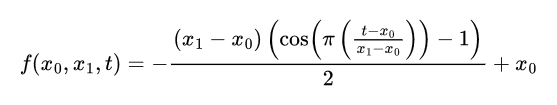
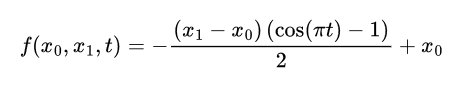
add intake & update easing formula for it

Changed region(s): [[0.0302, 0.1839, 0.9676, 0.8276]]

diff --git a/TeamCode/src/main/java/org/lexingtonchristian/ftc/components/Intake.java b/TeamCode/src/main/java/org/lexingtonchristian/ftc/components/Intake.java
@@ -1,0 +1,54 @@
+package org.lexingtonchristian.ftc.components;
+
+import com.qualcomm.robotcore.hardware.DcMotor;
+import com.qualcomm.robotcore.hardware.DcMotorEx;
+import com.qualcomm.robotcore.hardware.HardwareMap;
+
+import org.lexingtonchristian.ftc.util.Constants;
+import org.lexingtonchristian.ftc.util.MathHelper;
+
+public class Intake {
+
+    private final DcMotorEx motor;
+
+    private boolean active;
+    private long startTime;
+    private long activeDuration;
+
+    public Intake(HardwareMap map) {
+        motor = (DcMotorEx) map.get(DcMotor.class, Constants.INTAKE);
+        active = false;
+    }
+
+    public void setActive(boolean active) {
+        boolean prev = this.active;
+        this.active = active;
+        if (active && !prev) {
+            startTime = System.currentTimeMillis();
+            activeDuration = 0;
+        }
+    }
+
+    public void tick() {
+
+        if (!active) {
+            motor.setPower(0.0);
+            return;
+        }
+
+        if (activeDuration >= Constants.INTAKE_SPINUP_MS) {
+            motor.setVelocity(Constants.INTAKE_VELOCITY);
+            return;
+        }
+
+        activeDuration = System.currentTimeMillis() - startTime;
+
+        motor.setVelocity(MathHelper.easeInOutSine(
+                0,
+                Constants.INTAKE_VELOCITY,
+                (double) activeDuration / (double) Constants.INTAKE_SPINUP_MS
+        ));
+
+    }
+
+}

diff --git a/TeamCode/src/main/java/org/lexingtonchristian/ftc/op/tele/PrimaryTeleOp.java b/TeamCode/src/main/java/org/lexingtonchristian/ftc/op/tele/PrimaryTeleOp.java
@@ -5,11 +5,13 @@ import com.qualcomm.robotcore.eventloop.opmode.TeleOp;
 import com.qualcomm.robotcore.hardware.Gamepad;
 
 import org.lexingtonchristian.ftc.components.Drivetrain;
+import org.lexingtonchristian.ftc.components.Intake;
 
 @TeleOp(name = "Primary", group = "Competition")
 public class PrimaryTeleOp extends OpMode {
 
     private Drivetrain drivetrain;
+    private Intake intake;
 
     private final Gamepad currentGamepad = new Gamepad();
     private final Gamepad previousGamepad = new Gamepad();
@@ -18,6 +20,7 @@ public class PrimaryTeleOp extends OpMode {
     public void init() {
 
         drivetrain = new Drivetrain(hardwareMap);
+        intake = new Intake(hardwareMap);
 
         currentGamepad.copy(gamepad1);
 
@@ -36,7 +39,12 @@ public class PrimaryTeleOp extends OpMode {
         double y = currentGamepad.left_stick_y * -1;
         double r = currentGamepad.right_stick_x;
 
+        boolean runIntake = currentGamepad.right_trigger_pressed;
+
         drivetrain.drive(x, y, r);
+
+        intake.setActive(runIntake);
+        intake.tick();
 
     }
 

diff --git a/TeamCode/src/main/java/org/lexingtonchristian/ftc/util/MathHelper.java b/TeamCode/src/main/java/org/lexingtonchristian/ftc/util/MathHelper.java
@@ -15,8 +15,7 @@ public class MathHelper {
     }
 
     public static double easeInOutSine(double x0, double x1, double t) {
-        double dx = x1 - x0;
-        return - ( dx * ( cos( PI * ( ( t - x0 ) / dx ) ) - 1 ) ) / 2 ;
+        return - ( ( (x1 - x0) * ( cos( PI * t ) - 1 ) ) / 2 ) + x0;
     }
 
 }

diff --git a/TeamCode/src/main/java/org/lexingtonchristian/ftc/util/Constants.java b/TeamCode/src/main/java/org/lexingtonchristian/ftc/util/Constants.java
@@ -17,4 +17,7 @@ public class Constants {
 
     public static final String INTAKE = "intake";
 
+    public static final int INTAKE_VELOCITY = 850;
+    public static final long INTAKE_SPINUP_MS = 1000;
+
 }
